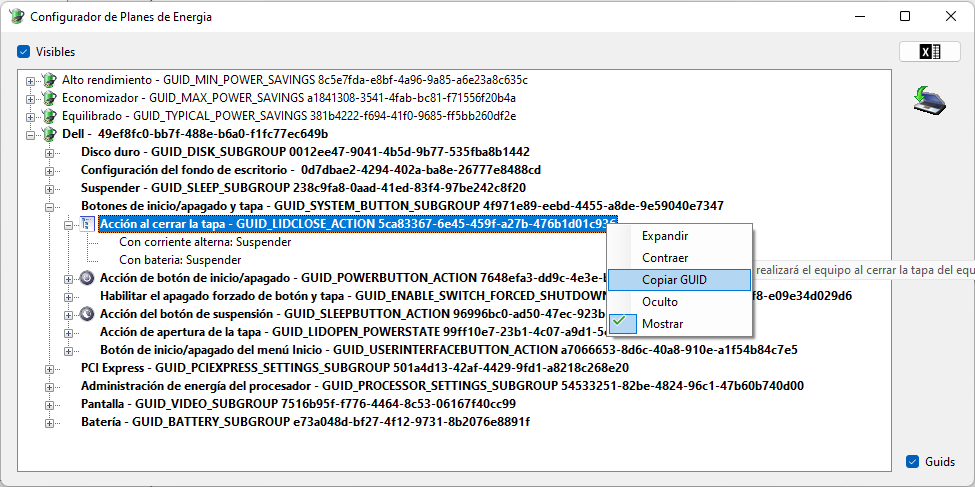
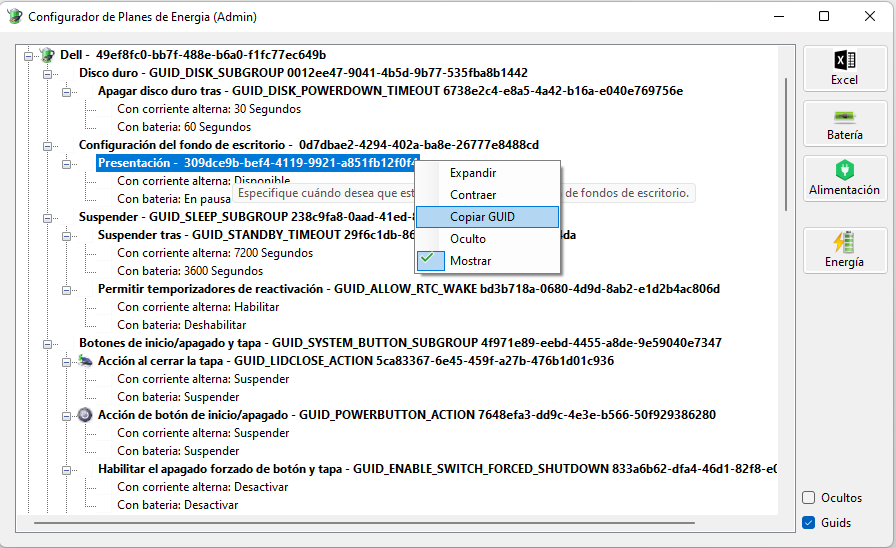
aaa

Changed region(s): [[0.0, 0.0, 1.0, 0.9856], [0.9062, 0.0, 0.9375, 0.0616]]

diff --git a/README.md b/README.md
@@ -15,3 +15,8 @@
  * You can export all configurations pasting in Excel the exported values.
 
  ![ExcelCapture](ExcelCapture.png)
+
+ ![ExcelCapture](ExcelCapture.png)
+
+ * Three integrated PowerCFG reports: Battery, Power & Energy Response
+  ![ScreenShot5](ScreenShot5.png)
